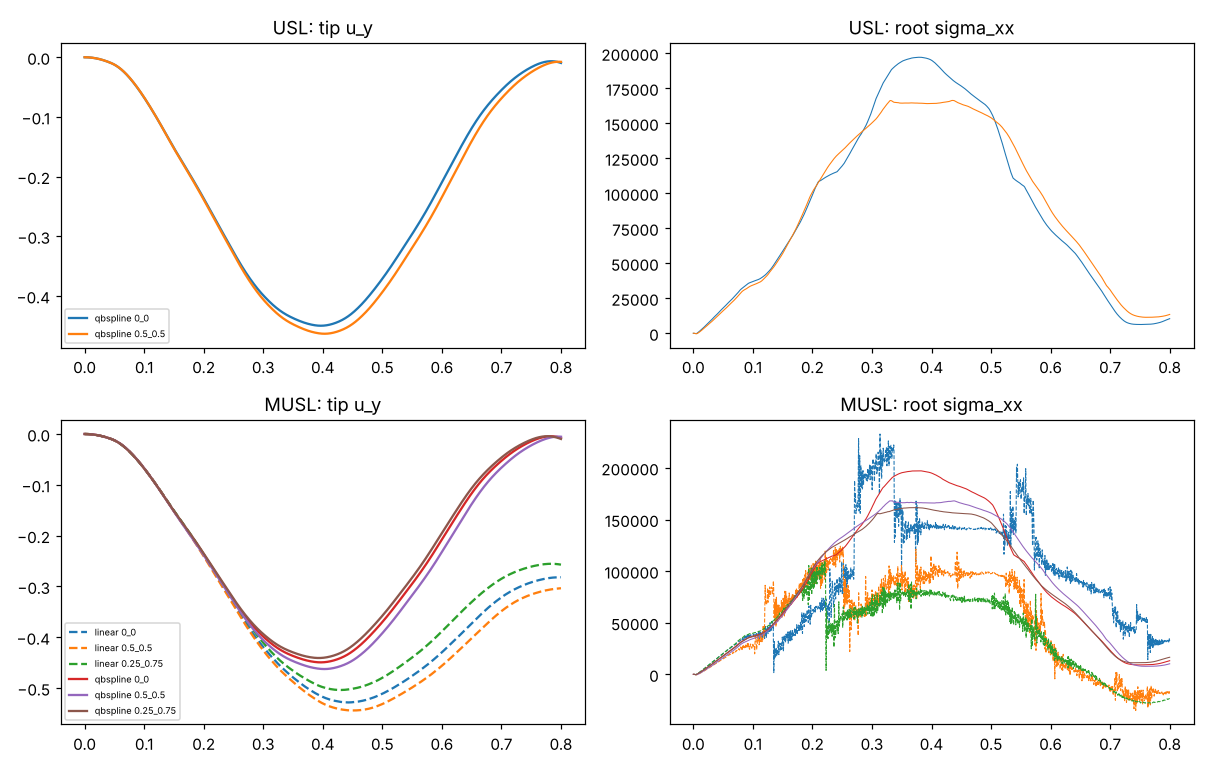
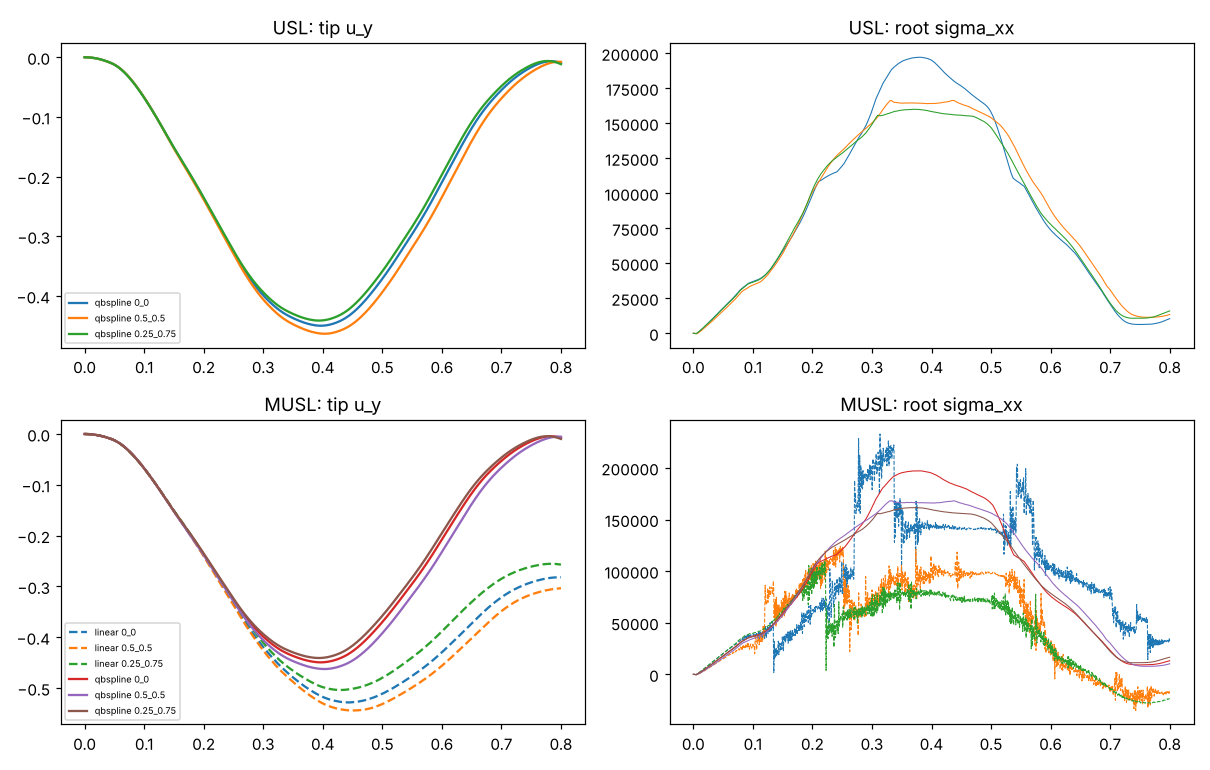
最终交付：报告摘要定稿、README、交付记录；验收测试通过

diff --git a/PROGRESS.md b/PROGRESS.md
@@ -48,9 +48,27 @@
 - [!] h=0.0025 显式 K=50（区间 1.6 ms）os 与 os_piml 均在 t≈0.29s 失稳（J<=0）。经验规律：区间物理时长 K·dt < ~2–2.5 ms 失稳
       （h=0.01 K12=2.5ms 失稳、K25=5ms 稳；h=0.005 K25=2ms 能量+6.5%、K50=3.9ms 稳）⇒ t13：PIML+agg1 K50 在 h=0.0025 稳定：7.82×、误差 1.37%（细尺度 7704s）。t14（K=150）：精确 4.89×、+聚合 7.02×、+PIML 6.18×、PIML+聚合 12.80×（误差 1.47%）；ML 增量 1.82×。
 
-## 下一步
-1) 查看 t6、isc、cc 结果；2) PIML-edge：数据生成/训练/接入 build_basis_os（ML 预测条带，回退精确）并计时对比；
-3) 报告。
+## 最终交付记录（2026-11-10 02:45 UTC+8，硬截止 09:30 前完成并安全停止新实验）
+### 已完成
+- 两条独立路线的可信基准与计时分解（显式 USL/MUSL；隐式 UL Newton + 一致切线 + 细尺度小支撑外推）。
+- 显式：多尺度粗运动学 + 区间冻结映射；MsFEM 型基精度瓶颈经 Guyan 上界实验定位，提出边自适应基；粒子积分聚合；PIML 边条带。
+  最大规模 128k 粒子：非学习最佳 7.02×/1.25%；PIML+聚合 12.80×/1.47%（K=150）、16.65×/2.0%（K=300）；22.33× 需欠积分（能量误差 5.8%）。
+- 隐式：两级 PCG（多尺度/边自适应粗空间，2D 慢于直接法）；约化 Newton + 聚合 + PIML：6.5×10⁴ 自由度 8.19×/2.3%（非学习 4.49×）。
+- PIML：学习 Φ 在 2D 无净收益（定量）；学习边条带有净收益 1.7–2.1×；跨工况（beam2）无需重训。
+- cell-crossing：机理检验 + 动力学批量（稳定性/能量/应力噪声/网格偏移）。
+- 报告 docs/REPORT.md；README.md。
+### 未完成
+- 在 ≤2% 误差下的 20–40× 目标（最高 16.65×）；百万级细尺度自由度完整验证；三维；隐式有限转动闭锁的共旋修正；谱粗空间 PIML；
+  显式短区间失稳的理论解释；更多跨工况算例。详见 REPORT §6。
+### 代码与 Git 状态
+- 本地仓库 /home/user/piml-mpm（git，未配置远程；**未执行任何 push/merge/部署**）。大体积结果 npz 在 .gitignore 中，只保留在容器内。
+### 测试与验收
+- common.test_shape PASS；common.test_msbasis PASS；explicit.cellcross_test、analyze_cc 运行正常；所有对比运行结果见 results/*/ *.json 与 logs。
+### 风险 / 待确认
+- **容器回收会丢失全部成果（含未入库的 npz）**：如需保存，请授权推送到指定仓库分支，或自行下载 /home/user/piml-mpm。
+- 部分计时在多作业并行时测得（同一表内方法在相近负载下比较）；正式性能结论建议在空闲机器上复测。
+### 恢复检查点与后续建议
+- 从 REPORT §6 的第 1 项（每步聚集/散射与粗尺度运算优化）或第 2 项（百万级与三维）继续；所有命令见 REPORT §7 与 README。
 
 ## 已设置的定时消息（发送至本会话，UTC+8）
 19:45 开始 trig_01HwdM5xUoKAUYGFF6nY5Du7；20:45 trig_01ASWo8Qfz4UEV3JMABuprEB；21:45 trig_01WukxVy8jCuRT1NfZBMntME；

diff --git a/README.md b/README.md
@@ -1,0 +1,28 @@
+# PIML-MPM：基于问题无关机器学习的物质点法高效计算（研究代码）
+
+Python 3 + numpy/scipy（只使用 MATLAB 有直接对应的运算：向量化数组运算、`bincount`≈`accumarray`、稀疏矩阵、`splu`/`spsolve`≈反斜杠、`eigsh`≈`eigs`、`nnls`/批量 `solve`）。
+所有计时必须单线程：通过 `tools/guard.sh` 运行（同时提供截止时间守卫）。
+
+## 目录
+| 路径 | 内容 |
+|---|---|
+| `docs/task_original.docx/.md` | 任务文档 |
+| `docs/PLAN.md` | 执行计划 |
+| `docs/REPORT.md` | **研究报告（结论、数据、复现命令）** |
+| `PROGRESS.md` | 进度检查点与交付记录 |
+| `common/` | 形函数（线性/二次B样条）、材料（Neo-Hookean）、非均质生成、计时器、全局组装、多尺度基（`msbasis.py` MsFEM 型；`msbasis_os.py` 边自适应） |
+| `explicit/` | 显式：基准 `mpm_explicit.py`、主程序 `main_explicit.py`；多尺度约化 `mpm_explicit_ms.py`、对比主程序 `main_explicit_ms.py`；比较 `compare_explicit.py`；cell-crossing `cellcross_test.py`、`analyze_cc.py` |
+| `implicit/` | 隐式：基准 `mpm_implicit.py`、预条件 `precond.py`、约化 Newton `mpm_implicit_red.py`、主程序 `main_implicit.py` |
+| `ml/` | PIML：`piml_basis.py`（学习 Φ，无净收益的对照）、`train_basis.py`、`train_edge.py`（学习边条带，有净收益）、`models/`（已训练模型与训练日志） |
+| `results/` | 结果 json/png 与运行日志（大体积 npz 不入库） |
+| `tools/guard.sh` | 截止守卫 + 单线程 |
+
+## 快速开始
+```bash
+tools/guard.sh python3 -m common.test_shape          # 形函数检验
+tools/guard.sh python3 -m common.test_msbasis        # 多尺度基检验（PU/刚体/一次场）
+tools/guard.sh python3 -m explicit.main_explicit --h 0.01 --tend 0.4
+GUARD_MAX=3600 tools/guard.sh python3 -m explicit.main_explicit_ms --h 0.01 --tend 0.4 --n 8 --K 50 --agg 1 --basis os os_piml --theta 0.1 --edge_suffix _c100 --tag demo
+python3 -m explicit.compare_explicit demo --plot
+GUARD_MAX=3000 tools/guard.sh python3 -m implicit.main_implicit --h 0.01 --nload 40 --n 8 --solvers direct red_os_agg red_os_piml_agg --quiet
+```
